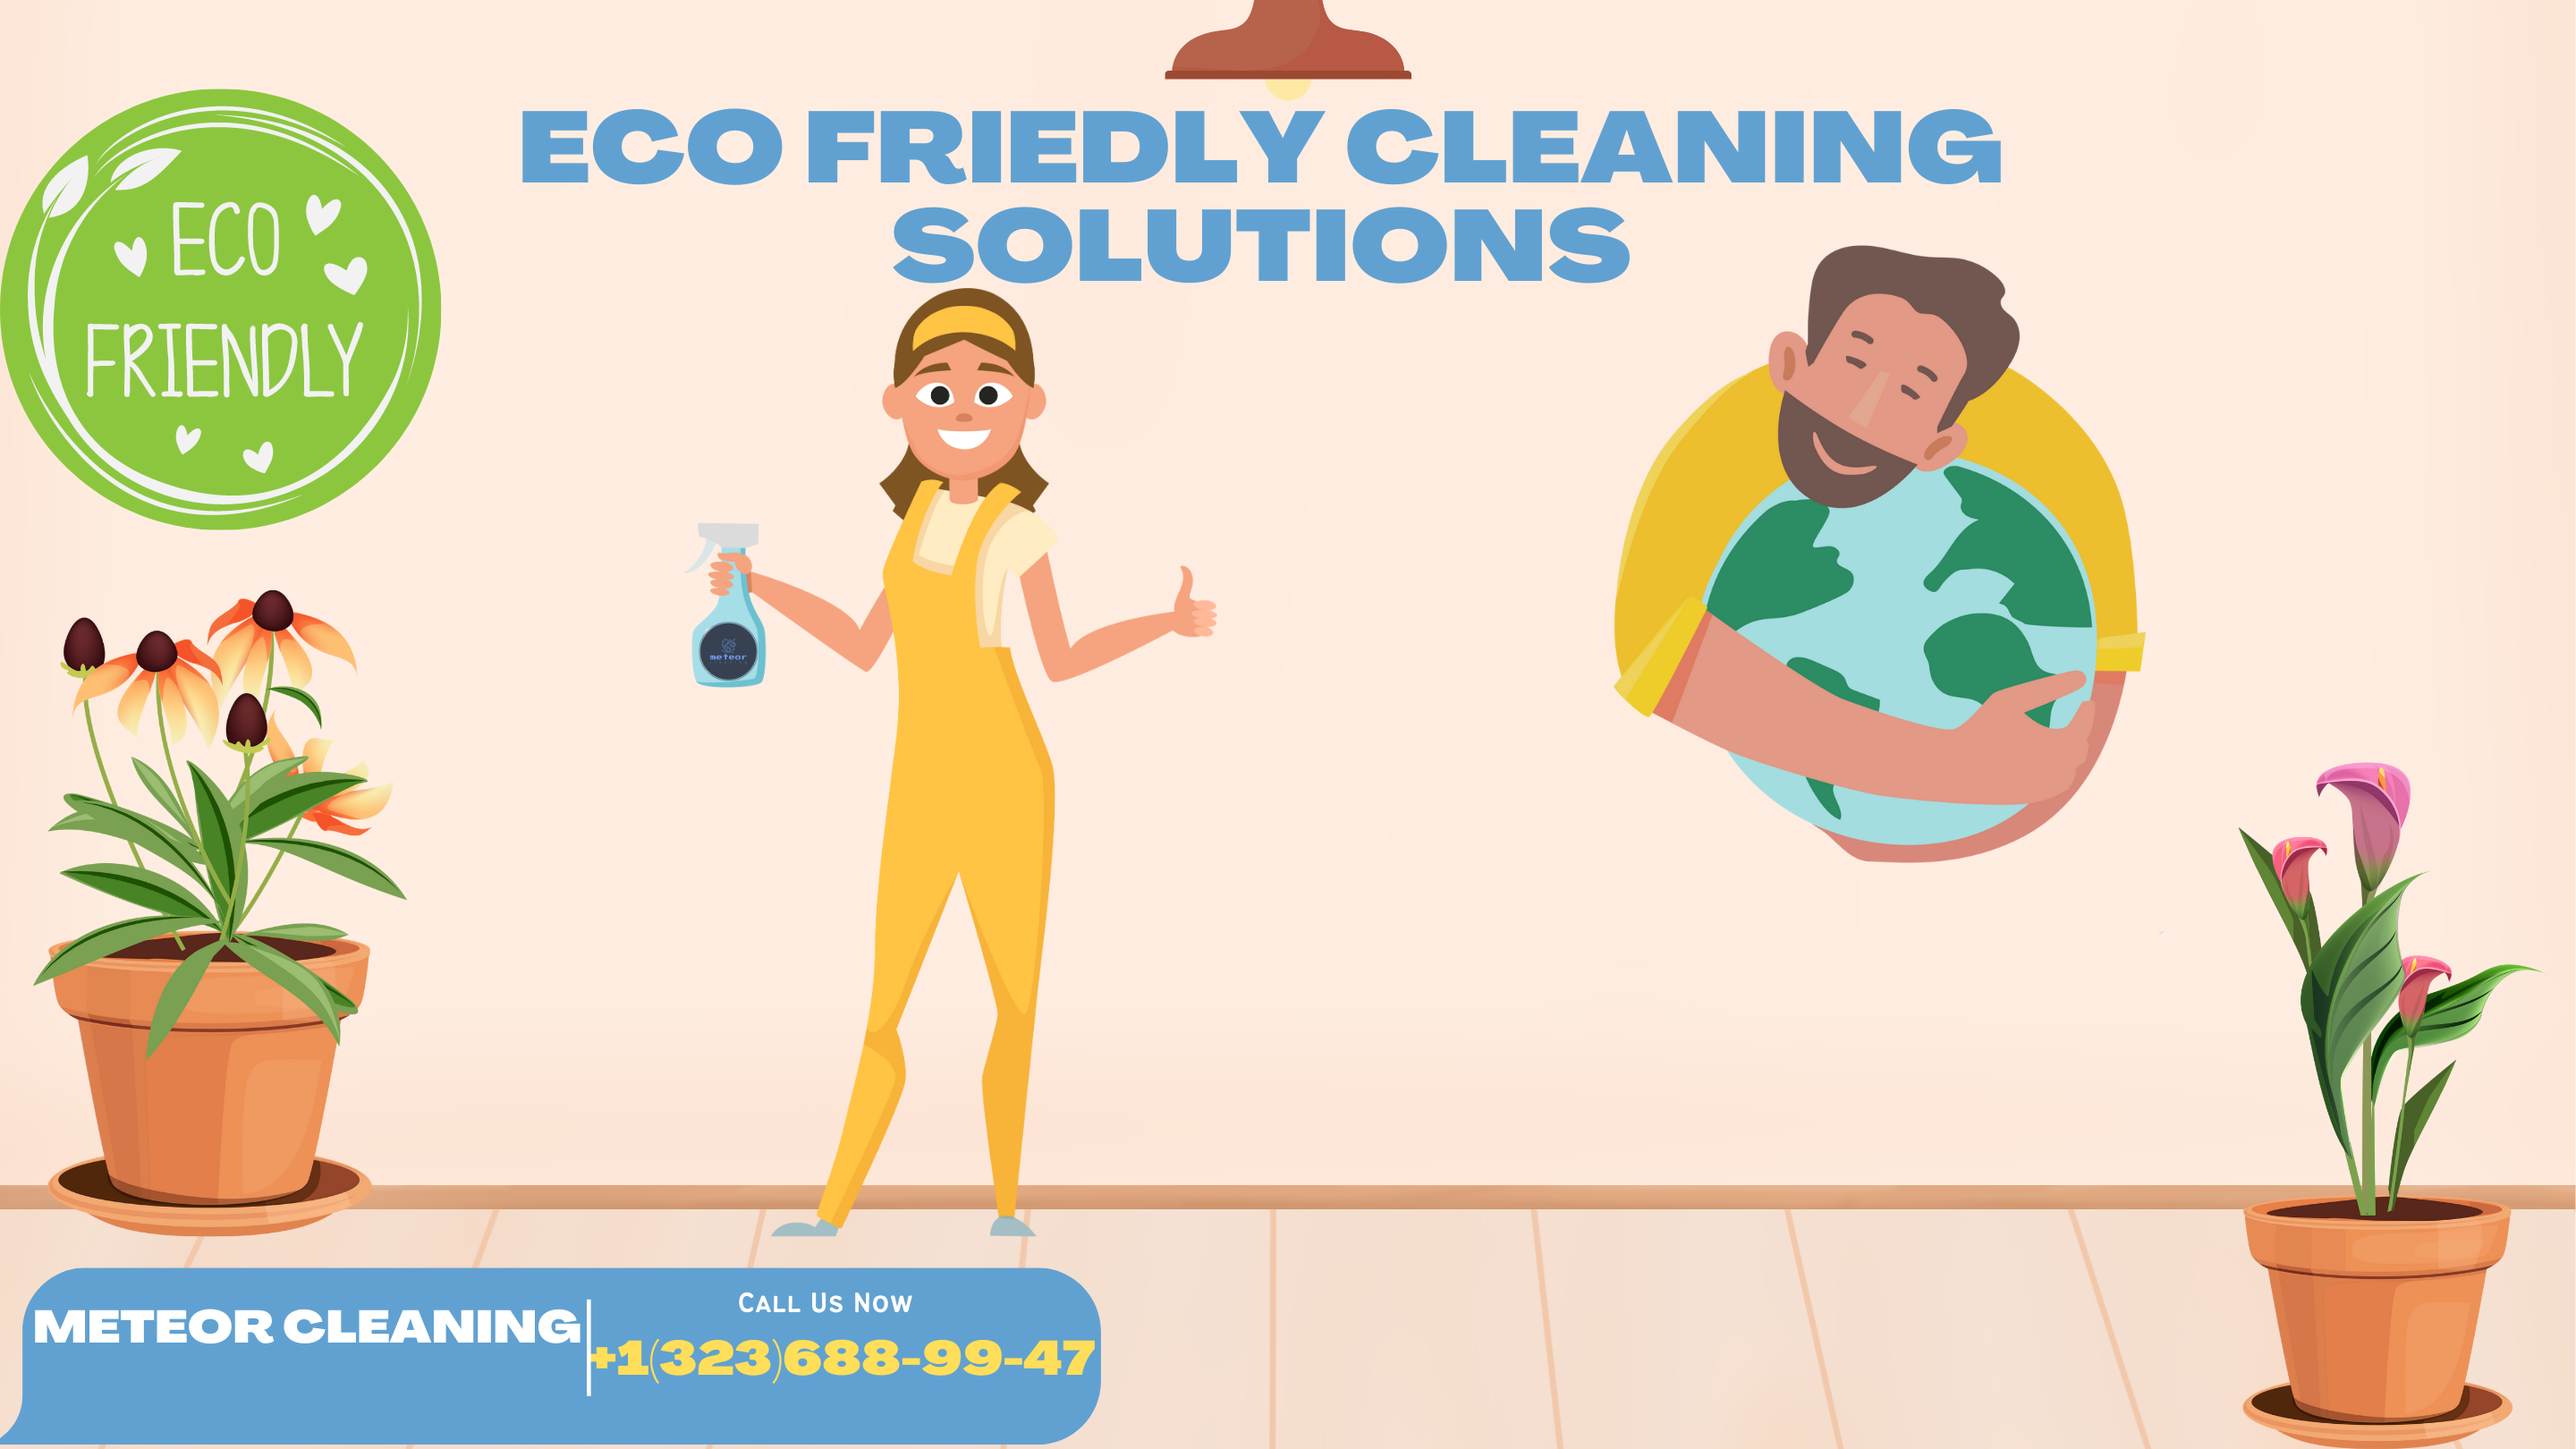
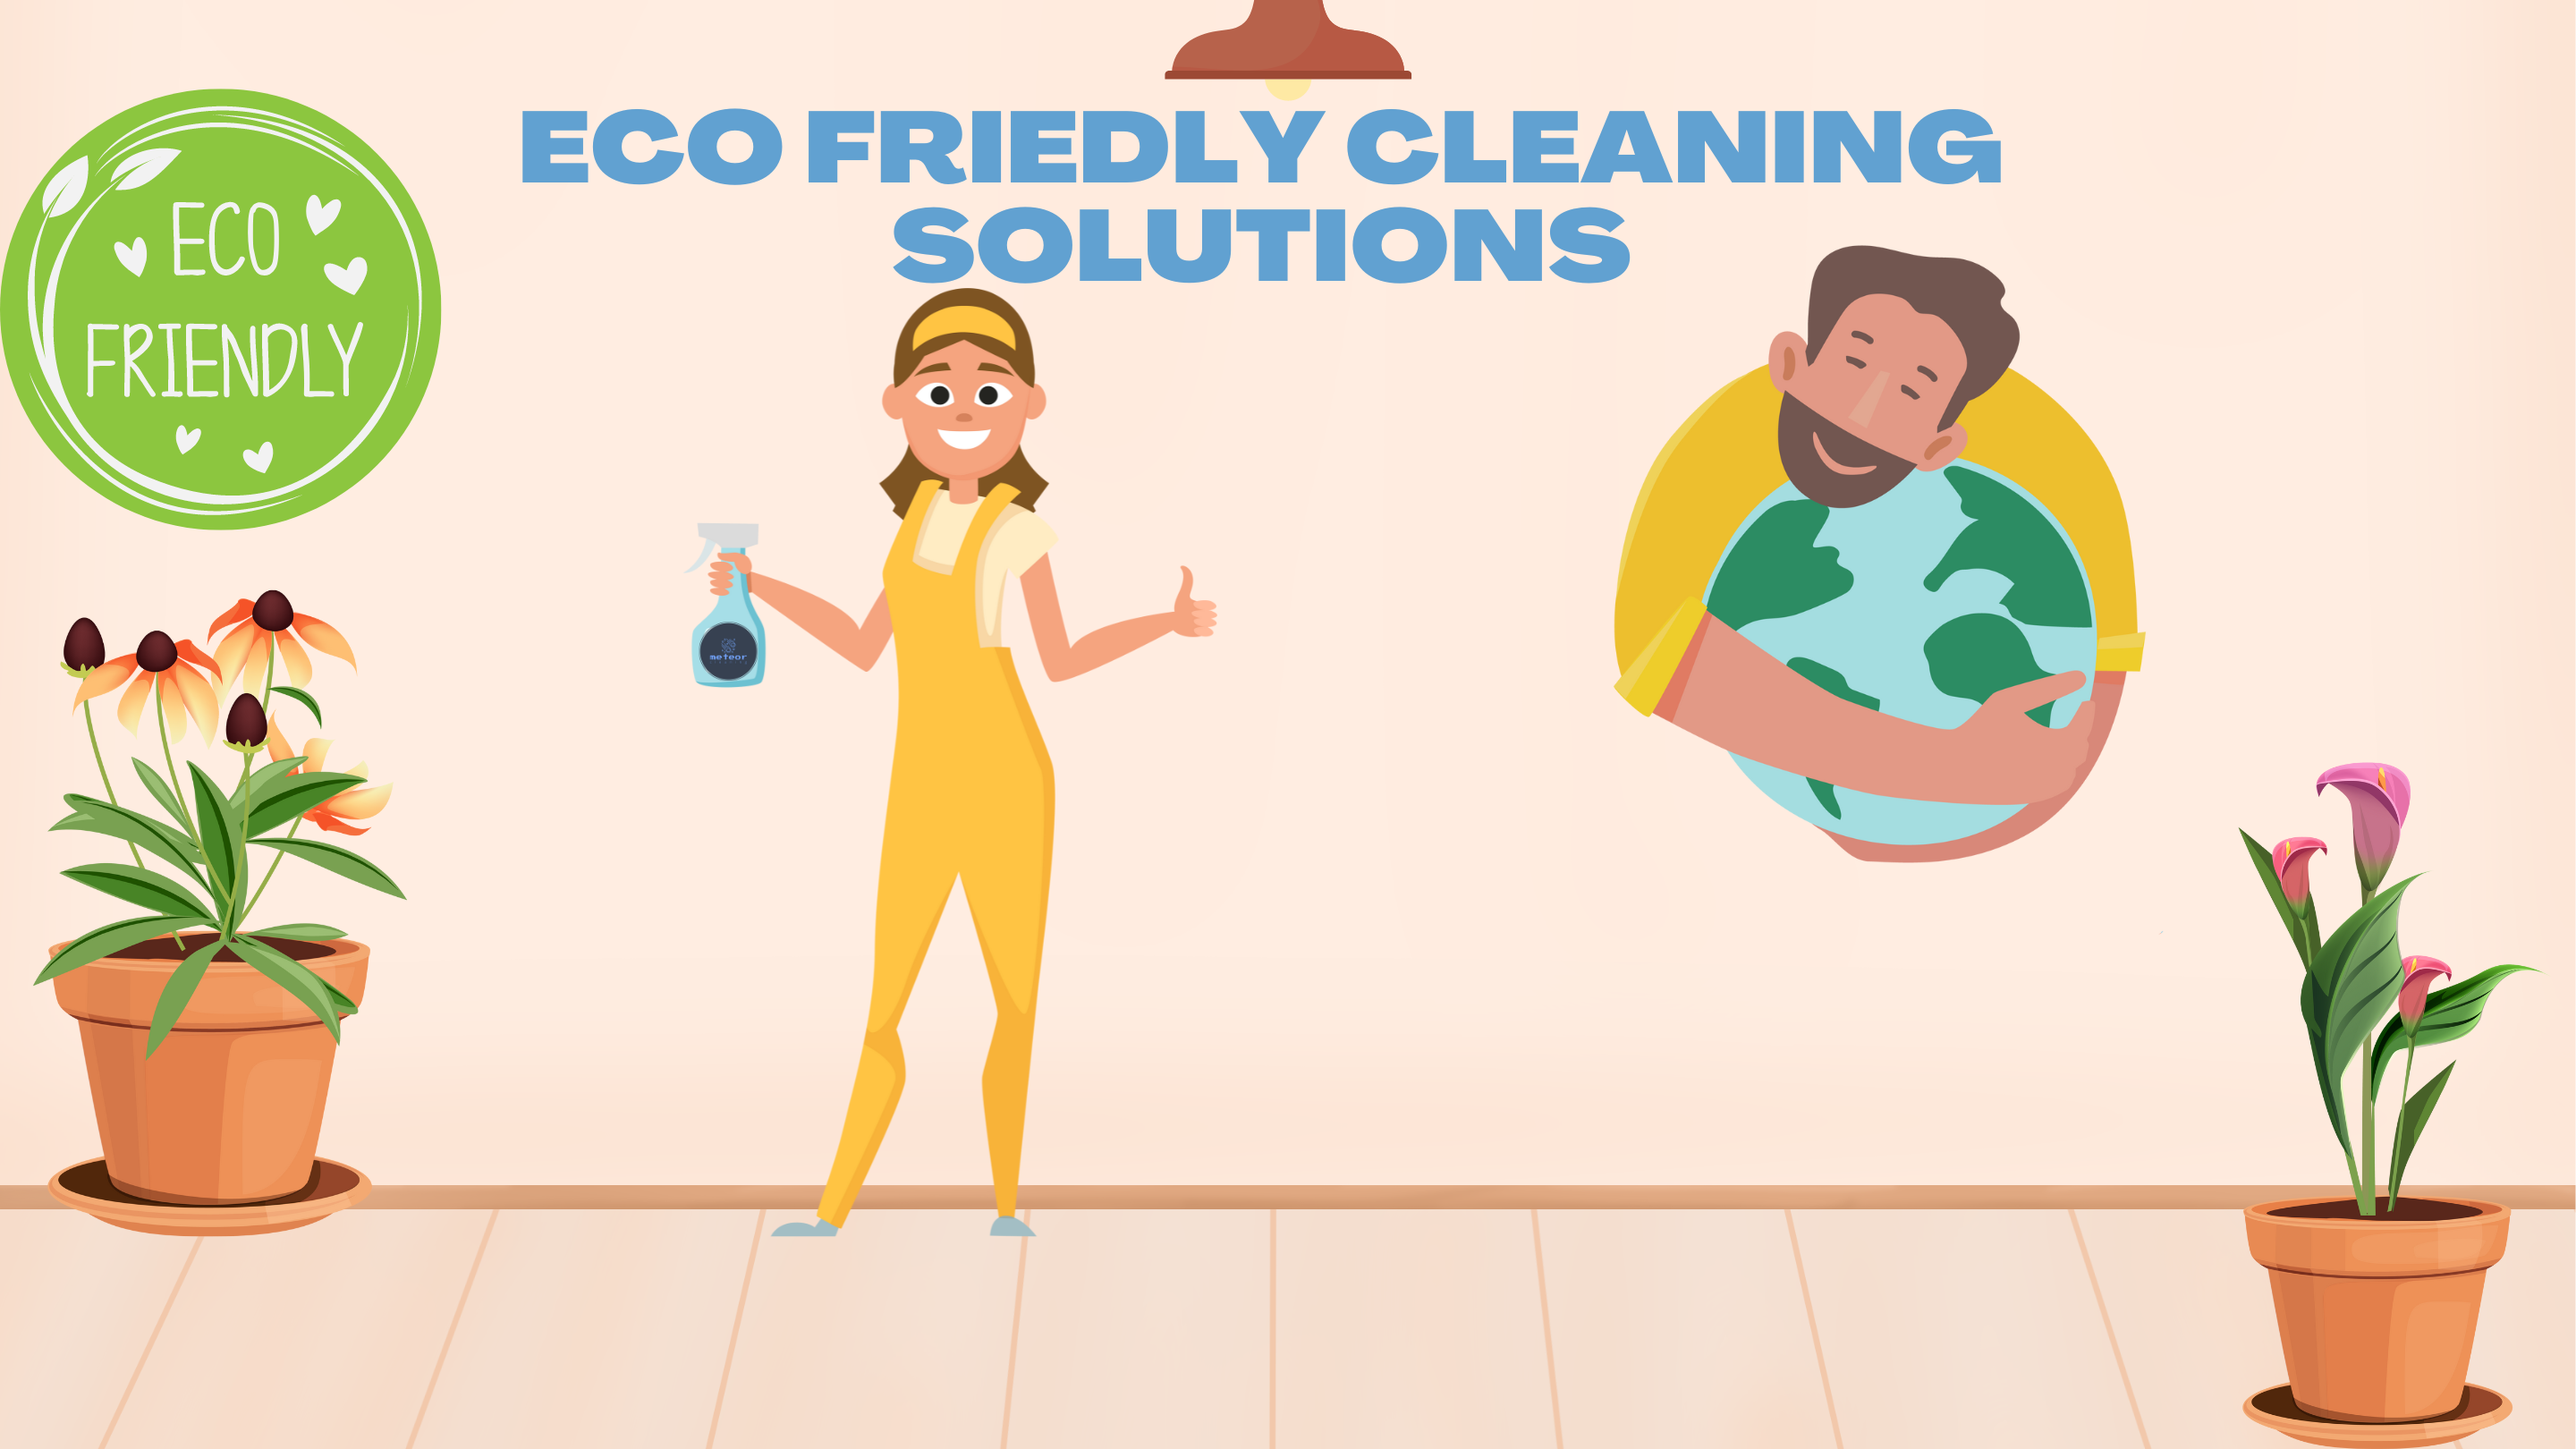
phone changed from img to web element

Changed region(s): [[0.0, 0.8642, 0.4375, 1.0]]

diff --git a/src/main/resources/static/css/main.css b/src/main/resources/static/css/main.css
@@ -701,6 +701,48 @@ footer {
 
 }
 
+.phone-number {
+    position: absolute;
+    right: 0;
+    bottom: 0;
+    left: 0;
+    z-index: 2;
+    display: flex;
+    justify-content: center;
+    padding: 0;
+    list-style: none;
+    width: 100%;
+}
+
+.bubble {
+    font-family: "Press Start 2P", cursive;
+    min-width: 50%;
+    position: relative;
+    display: inline-block;
+    text-align: center;
+    margin: 15px;
+    background-color: #61a1d1;
+    color: #fff;
+    padding: 12px;
+    box-shadow: 0 -4px #fff, 0 -8px #374151, 4px 0 #fff, 4px -4px #374151, 8px 0 #374151, 0 4px #fff, 0 8px #374151,
+    -4px 0 #fff, -4px 4px #374151, -8px 0 #374151, -4px -4px #374151, 4px 4px #374151, 4px 12px rgba(0, 0, 0, 0.1),
+    12px 4px rgba(0, 0, 0, 0.1), 8px 8px rgba(0, 0, 0, 0.1);
+    box-sizing: border-box;
+}
+
+.bubble::after {
+    content: "";
+    display: block;
+    position: absolute;
+    box-sizing: border-box;
+    height: 4px;
+    width: 4px;
+    top: -8px;
+    left: 32px;
+    box-shadow: 0 -4px #374151, 0 -8px #374151, 0 -12px #374151, 0 -16px #374151, -4px -12px #374151,
+    -8px -8px #374151, -12px -4px #000, -4px -4px #fff, -8px -4px #fff, -4px -8px #fff,
+    -4px 0 #fff, -8px 0 #fff, -12px 0 #fff;
+}
 
 @media (max-width: 992px) {
     .solutions-inside {
@@ -710,6 +752,10 @@ footer {
         /* align-items: center;
         justify-items: center;
         grid-template-columns: repeat(5,200px); */
+    }
+
+    .bubble {
+        font-size: x-small;
     }
 
     .mcard {

diff --git a/src/main/resources/templates/index.html b/src/main/resources/templates/index.html
@@ -20,6 +20,7 @@
     <!-- Font Awesome -->
     <link href="https://cdnjs.cloudflare.com/ajax/libs/font-awesome/6.0.0/css/all.min.css" rel="stylesheet"/>
     <!-- Google Fonts -->
+    <link href="https://fonts.googleapis.com/css?family=Press+Start+2P&display=swap" rel="stylesheet">
     <link href="https://fonts.googleapis.com/css?family=Roboto:300,400,500,700&display=swap" rel="stylesheet"/>
     <!-- MDB -->
     <link href="https://cdnjs.cloudflare.com/ajax/libs/mdb-ui-kit/5.0.0/mdb.min.css" rel="stylesheet"/>
@@ -149,13 +150,8 @@
         <!-- Carousel wrapper -->
         <div class="carousel slide carousel-fade " data-mdb-ride="carousel" id="carousel">
             <!-- Indicators -->
-            <div class="carousel-indicators">
-                <button aria-current="true" aria-label="Slide 1" class="active" data-mdb-slide-to="0"
-                        data-mdb-target="#carousel" type="button"></button>
-                <button aria-label="Slide 2" data-mdb-slide-to="1" data-mdb-target="#carousel"
-                        type="button"></button>
-                <button aria-label="Slide 3" data-mdb-slide-to="2" data-mdb-target="#carousel"
-                        type="button"></button>
+            <div class="phone-number">
+                <div class="bubble text-uppercase  lh-1 ">Meteor Cleaning +1(323)333-22-33</div>
             </div>
 
             <!-- Inner -->
